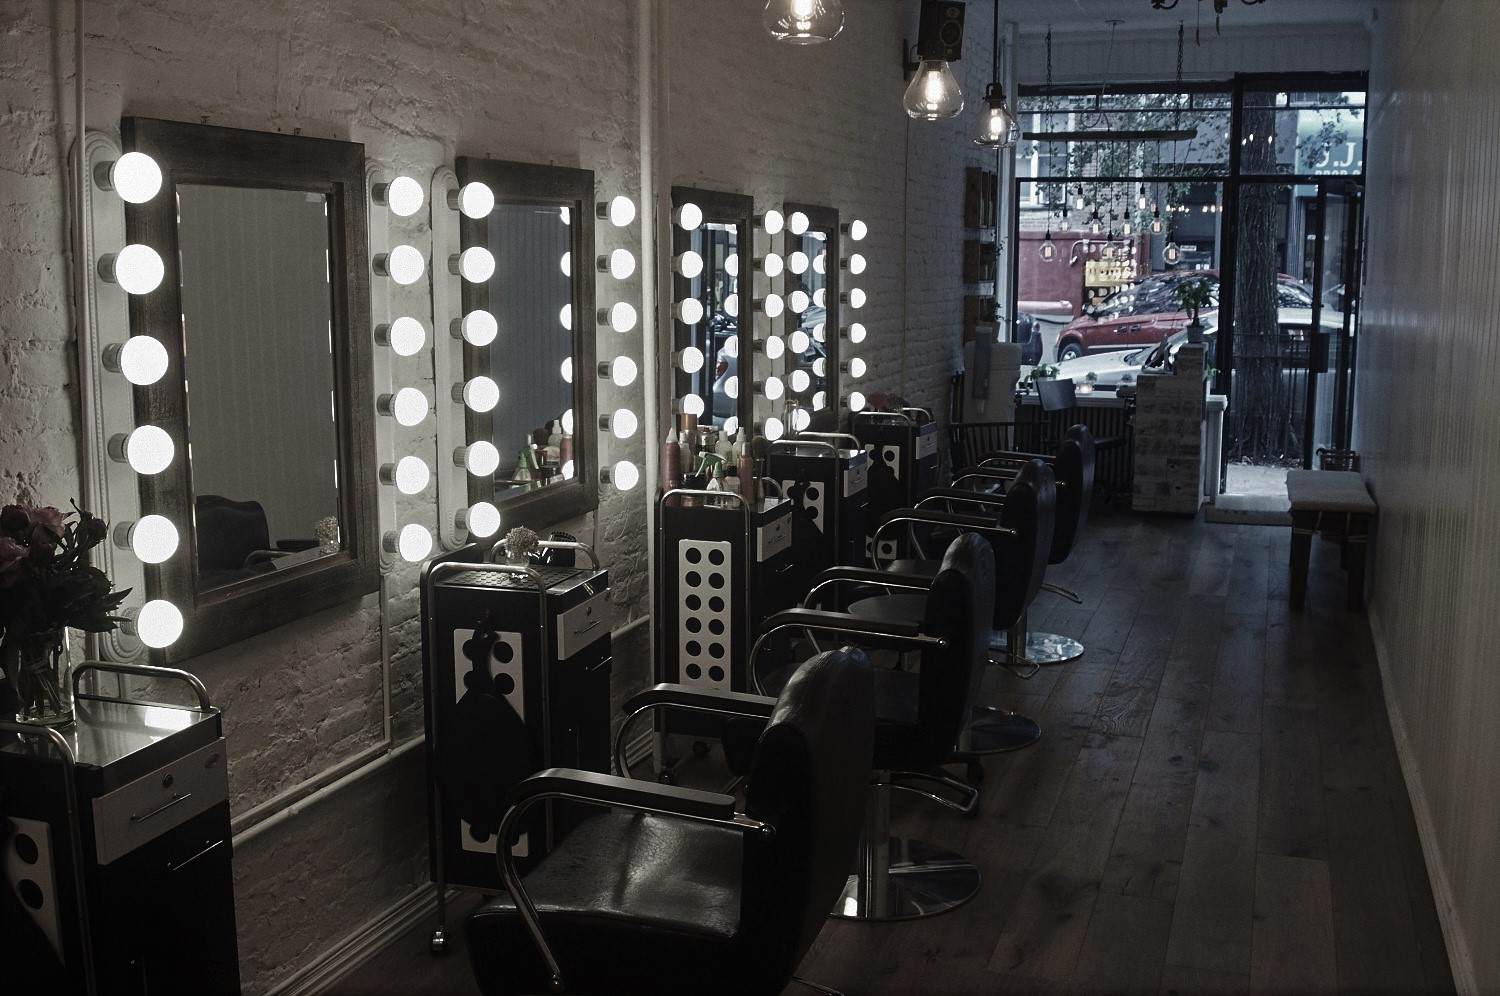
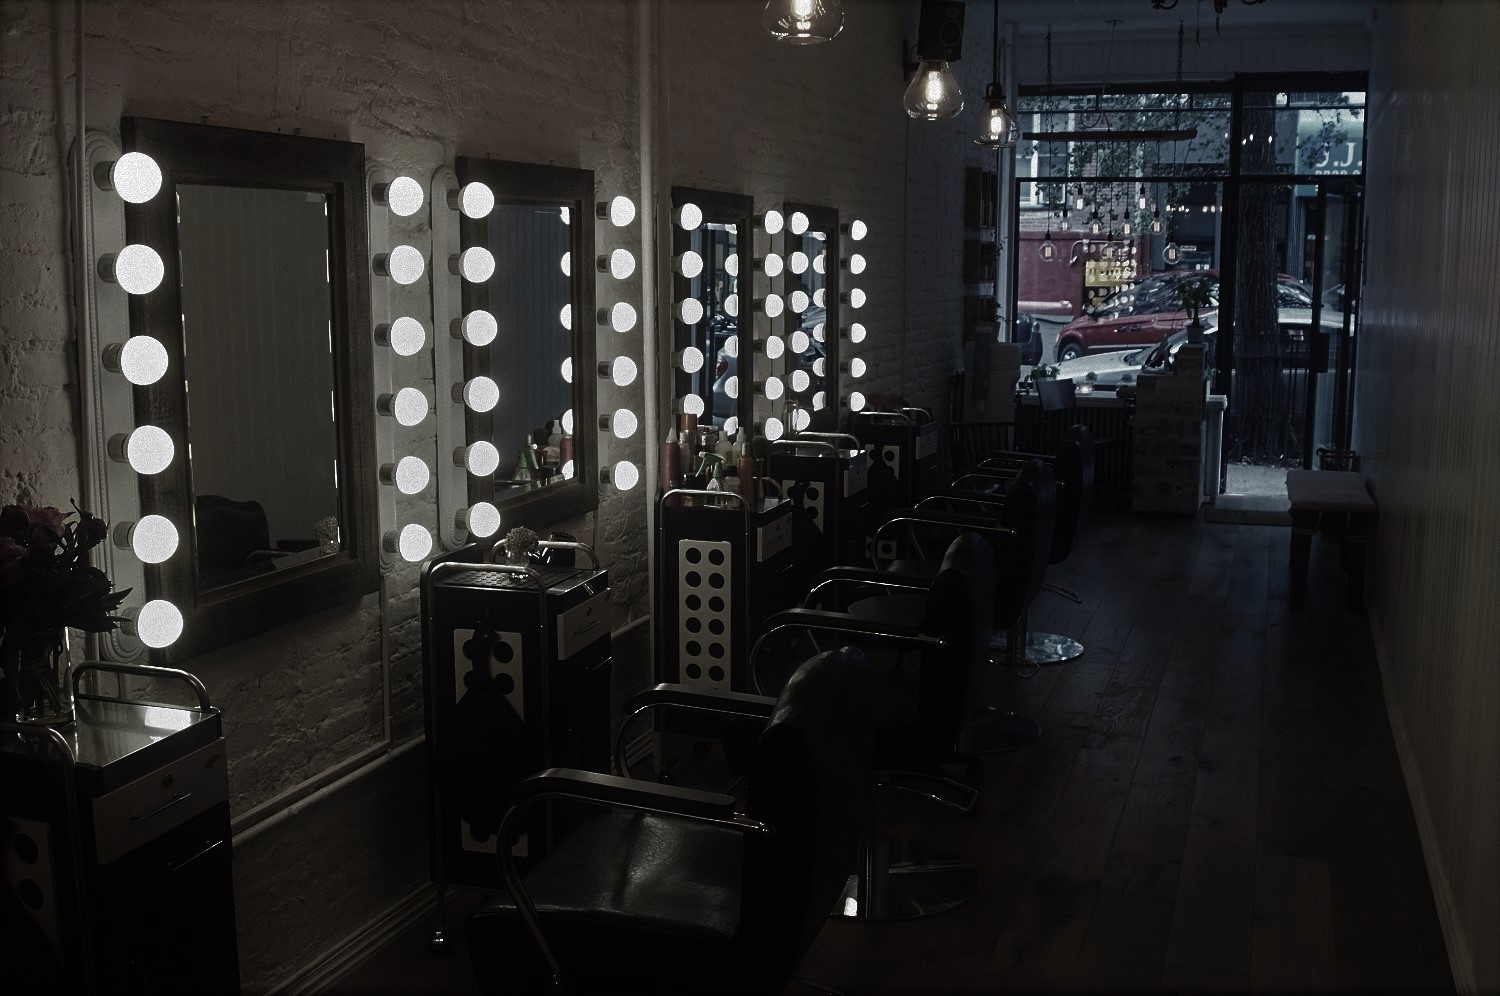
changed height of background pic

diff --git a/assets/css/main.css b/assets/css/main.css
@@ -3875,6 +3875,11 @@ input, select, textarea {
 					font-size: 1.25em;
 					margin: 0 0 1em 0;
 				}
+			
+			#banner {
+				box-shadow: 0 0.125em 0.5em 0 rgb(0 0 0 / 25%);
+				min-height: calc(100vh);
+			}
 
 		}
 
